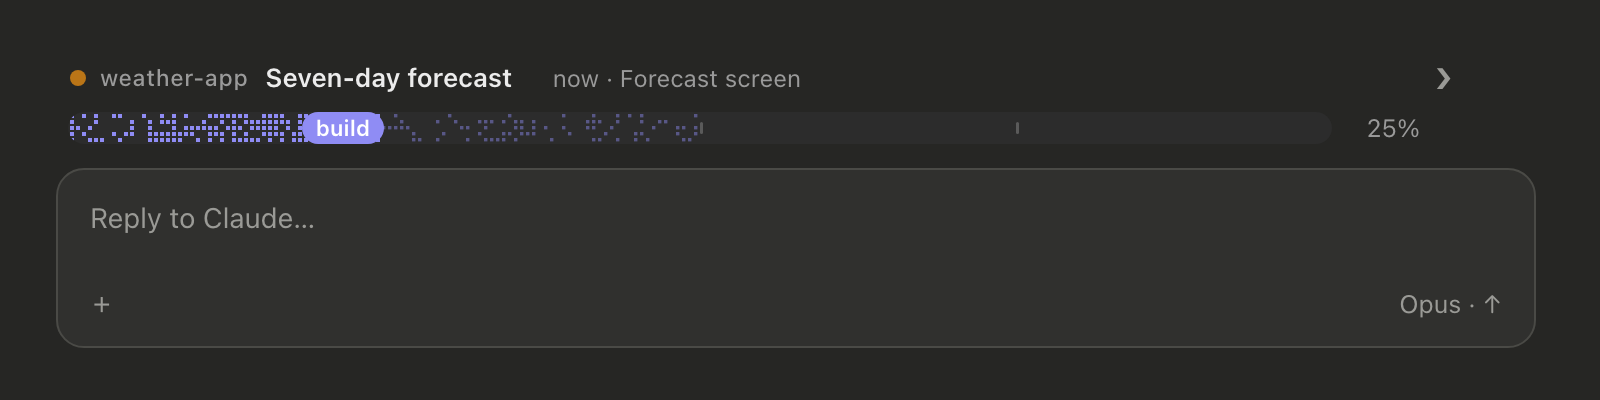
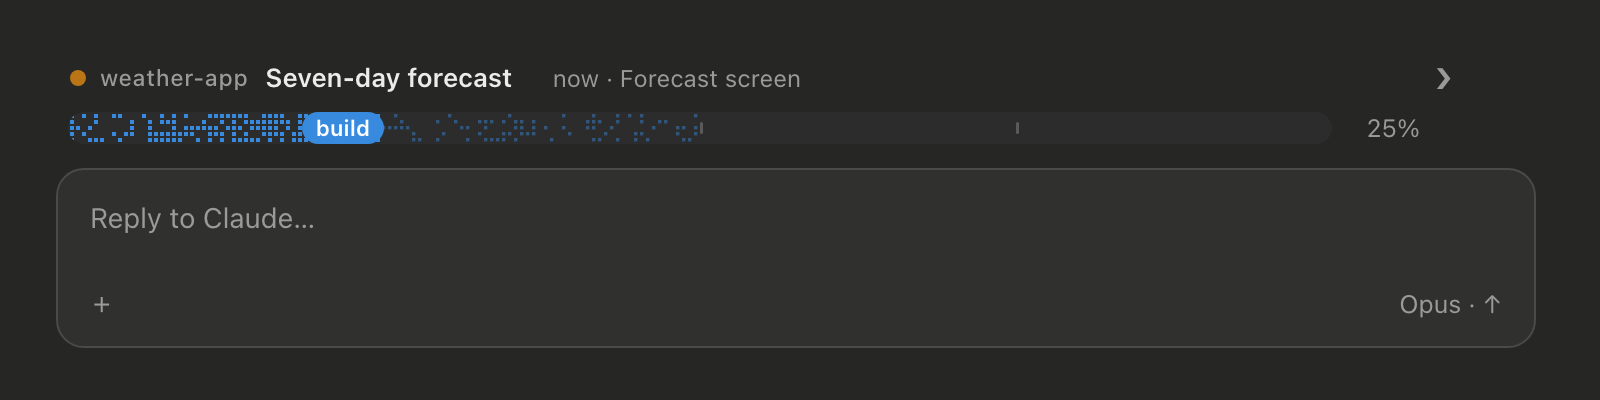
Stage colors from 0.7 (spec purple, design pink, build blue, track teal, test amber, ship green); the band's bar takes the current stage's color; the pane's bar is the band's; Up next clipped at 30 characters, Claude touched names at 20; folder chevron is a ▸/▾ button so folders close again on the d

Changed region(s): [[0.0312, 0.27, 0.25, 0.36], [0.2812, 0.3, 0.3438, 0.36]]

diff --git a/hooks/register.tsx b/hooks/register.tsx
@@ -3,7 +3,7 @@ import type { EngineInterface, Hook, Register } from 'claude-code'
 
 import type { DevEntry, Entry, Files, Git, Group, PaneUi, Snap, Touch, WorkbenchUi, WorkItem } from '../types'
 import type { BarIn } from './draw'
-import { ACCENT, bandBarSvg, bandTitleSvg, DOING, DONE, MUTED } from './draw'
+import { ACCENT, bandBarSvg, bandTitleSvg, DOING, DONE, MUTED, STAGE_COLOR } from './draw'
 import { activeItem, byStatus, clip, counts, localDate, newId, nextStatus, parseAdd, STAGES, TITLE_MAX, withStages } from './logic'
 import type { Plan, PlanFront } from './plans'
 import { allDone, devEntryOf, newPlanText, newTaskKey, parsePlan, plansDirName, setFront, setItems, snapshotOfPlans } from './plans'
@@ -12,7 +12,7 @@ import {
   inkOf, paletteOf, parentOf, parseStatus, relDir, rowsOf, search, THEME_KEY,
 } from './bench'
 import type { SkinCustom, SkinPrefs, Slot } from './bench'
-import { caps, fileTag, hero, icon, pill, progress, rule, triangle } from './icons'
+import { caps, fileTag, hero, icon, pill, rule } from './icons'
 import type { IconName, Ink } from './icons'
 
 const TOOL = 'work_items'
@@ -257,7 +257,8 @@ function barIn(g: Group): BarIn {
   const now = activeItem(g.items.filter(i => i.status !== 'done'))
   const finished = c.total > 0 && c.done === c.total
   const pill = finished ? 'done' : !g.items.length ? 'break down' : !c.total ? `${n.draft} draft${n.draft === 1 ? '' : 's'}` : (now?.stage ?? 'build')
-  return { done: c.done, doing: n.doing, total: c.total, pill, finished }
+  // The bar takes the current stage's color, as the pane's stage tags do.
+  return { done: c.done, doing: n.doing, total: c.total, pill, finished, color: now ? STAGE_COLOR[now.stage] : undefined }
 }
 
 /** The item the band names: in progress, else the next one to do. */
@@ -669,8 +670,8 @@ export const register: Register = (on, options) => {
       const total = cur.items.length
       const pct = total ? Math.round((done / total) * 100) : 0
       const when = cur.start === cur.end ? shortDate(cur.start) : `${shortDate(cur.start)} → ${shortDate(cur.end)}`
-      // Every stage in the band's and savvy-progress's purple, as the band's bar shows it.
-      const stageTag = (key: string, stage: string) => <Text key={key} color={ACCENT}>{stage}</Text>
+      // Each stage in its own color, the one the band's bar takes while that stage is current.
+      const stageTag = (key: string, stage: string) => <Text key={key} color={STAGE_COLOR[stage] ?? MUTED}>{stage}</Text>
       const STATUS_ICON = { draft: 'square-dashed', todo: 'square', doing: 'square-dot', done: 'square-check' } as const
       const statusInk = (s: WorkItem['status']) => ink(s === 'done' ? 'ok' : s === 'doing' ? 'write' : 'muted')
       // The status square: a Lucide icon with a press over it; a glyph on the terminal.
@@ -700,7 +701,8 @@ export const register: Register = (on, options) => {
           </Box>
         ),
         Svg ? (
-          <Box key="ct-bar" marginTop={1} width="100%"><Svg height={8} alt={`${pct}% done`} source={progress(done, doing.length, total, ink('ok'), mutedInk)} /></Box>
+          // The band's bar: the current stage's color and its pill, the percent at the end.
+          <Box key="ct-bar" marginTop={1} width="100%"><Svg width={room(2)} height={20} alt={`${barIn(cur).pill}, ${pct}% done`} source={bandBarSvg(room(2), barIn(cur))} /></Box>
         ) : (
           <Text key="ct-bar" wrap="truncate-end">
             <Text {...c('ok')}>{'█'.repeat(Math.round((Math.max(8, cols - 12) * done) / Math.max(1, total)))}</Text>
@@ -709,7 +711,7 @@ export const register: Register = (on, options) => {
         ),
         <Box key="ct-count" flexDirection="row" justifyContent="space-between" width="100%">
           <Text {...c('muted')}>{total ? `${done} of ${total} done` : 'Not broken down yet'}</Text>
-          <Text bold {...c('ok')}>{`${pct}%`}</Text>
+          {Svg ? null : <Text bold {...c('ok')}>{`${pct}%`}</Text>}
         </Box>,
         divider('ct-hr'),
         capsText('ip-cap', 'In progress', 'write'),
@@ -787,7 +789,7 @@ export const register: Register = (on, options) => {
         task.push(
           <Box key={'nx-' + g.key} flexDirection="row" columnGap={1} alignItems="center" marginTop={1} width="100%">
             {dot('nxd-' + g.key, g.items.some(i => i.status === 'doing') ? 'write' : 'muted')}
-            <Box flexGrow={1} flexShrink={1} minWidth={0}><Text wrap="truncate-end" {...c('fg')}>{g.title}</Text></Box>
+            <Box flexGrow={1} flexShrink={1} minWidth={0}><Text wrap="truncate-end" {...c('fg')}>{clip(g.title, 30)}</Text></Box>
             <Text {...c('muted')}>{shortDate(g.start)}</Text>
           </Box>,
         )
@@ -889,7 +891,7 @@ export const register: Register = (on, options) => {
       touchKids.push(
         <Box key={'tc-' + t.path} flexDirection="row" columnGap={1} alignItems="center" marginTop={1} paddingLeft={2} width="100%">
           {Svg ? <Svg key={'tct-' + t.path} width={tag.w} height={tag.h} alt={extOf(t.path) || 'file'} source={tag.source} /> : null}
-          <Box flexShrink={1} minWidth={0}><Text bold wrap="truncate-end" {...c('fg')}>{baseOf(t.path)}</Text></Box>
+          <Box flexShrink={1} minWidth={0}><Text bold wrap="truncate-end" {...c('fg')}>{clip(baseOf(t.path), 20)}</Text></Box>
           <Box flexGrow={1} flexShrink={2} minWidth={0}><Text wrap="truncate-end" {...c('muted')}>{relDir(t.path, root)}</Text></Box>
           {Svg ? <Svg key={'tcp-' + t.path} width={p.w} height={p.h} alt={badge(t)} source={p.source} /> : <Text bold {...c(slot)}>{badge(t)}</Text>}
         </Box>,
@@ -925,18 +927,10 @@ export const register: Register = (on, options) => {
       for (const r of rows) {
         const toggle = () => void toggleDir($, r.path)
         const hidden = r.name.startsWith('.')
-        // triangle, icon, name: each in its own column so they line up at every depth
+        // chevron, icon, name: each in its own column so they line up at every depth
+        // A ▸/▾ button on every surface: an invisible button laid over a drawn triangle missed clicks on the desktop.
         const chevron = r.dir ? (
-          Svg ? (
-            <Box key={'cv-' + r.path} width={2} height={1} flexShrink={0} justifyContent="center" alignItems="center">
-              <Svg width={10} height={10} alt={r.open ? 'collapse' : 'expand'} source={triangle(r.open, mutedInk)} />
-              <Box position="absolute" top={0} left={0} right={0} bottom={0}>
-                <Button key={'cvb-' + r.path} plain label="  " onPress={toggle} />
-              </Box>
-            </Box>
-          ) : (
-            <Button key={'cv-' + r.path} plain label={r.open ? '▾' : '▸'} onPress={toggle} />
-          )
+          <Button key={'cv-' + r.path} plain label={r.open ? '▾' : '▸'} onPress={toggle} />
         ) : (
           <Box key={'cv-' + r.path} width={2} flexShrink={0} />
         )

diff --git a/hooks/draw.ts b/hooks/draw.ts
@@ -6,6 +6,8 @@ export const ACCENT = '#8f8cf4'
 export const DONE = '#5fbf8f'
 export const DOING = '#BA7517'
 export const MUTED = '#888780'
+/** Each work item stage's color: the pane's stage tags and the band's bar while that stage is current. */
+export const STAGE_COLOR: Record<string, string> = { spec: '#7F77DD', design: '#D4537E', build: '#378ADD', track: '#1D9E75', test: '#BA7517', ship: '#639922' }
 
 export const FONT = "-apple-system,BlinkMacSystemFont,'SF Pro Text','Segoe UI',sans-serif"
 const CSS = `<style>
@@ -38,12 +40,12 @@ const noise = (x: number, y: number) => {
   return s - Math.floor(s)
 }
 
-export type BarIn = { done: number; doing: number; total: number; pill: string; finished: boolean }
+export type BarIn = { done: number; doing: number; total: number; pill: string; finished: boolean; color?: string }
 
 /** savvy-flow's bar: dithered fill, a faint layer for work in progress, step ticks, a pill at the head. */
 function barG(x: number, y: number, W: number, H: number, b: BarIn, id: string, track = 'k') {
   const CELL = 3
-  const color = b.finished ? DONE : ACCENT
+  const color = b.finished ? DONE : (b.color ?? ACCENT)
   const fillW = b.total ? Math.round((W * b.done) / b.total) : 0
   const runW = b.total ? Math.round((W * Math.min(b.total, b.done + b.doing)) / b.total) : 0
   const rows = Math.floor(H / CELL)
